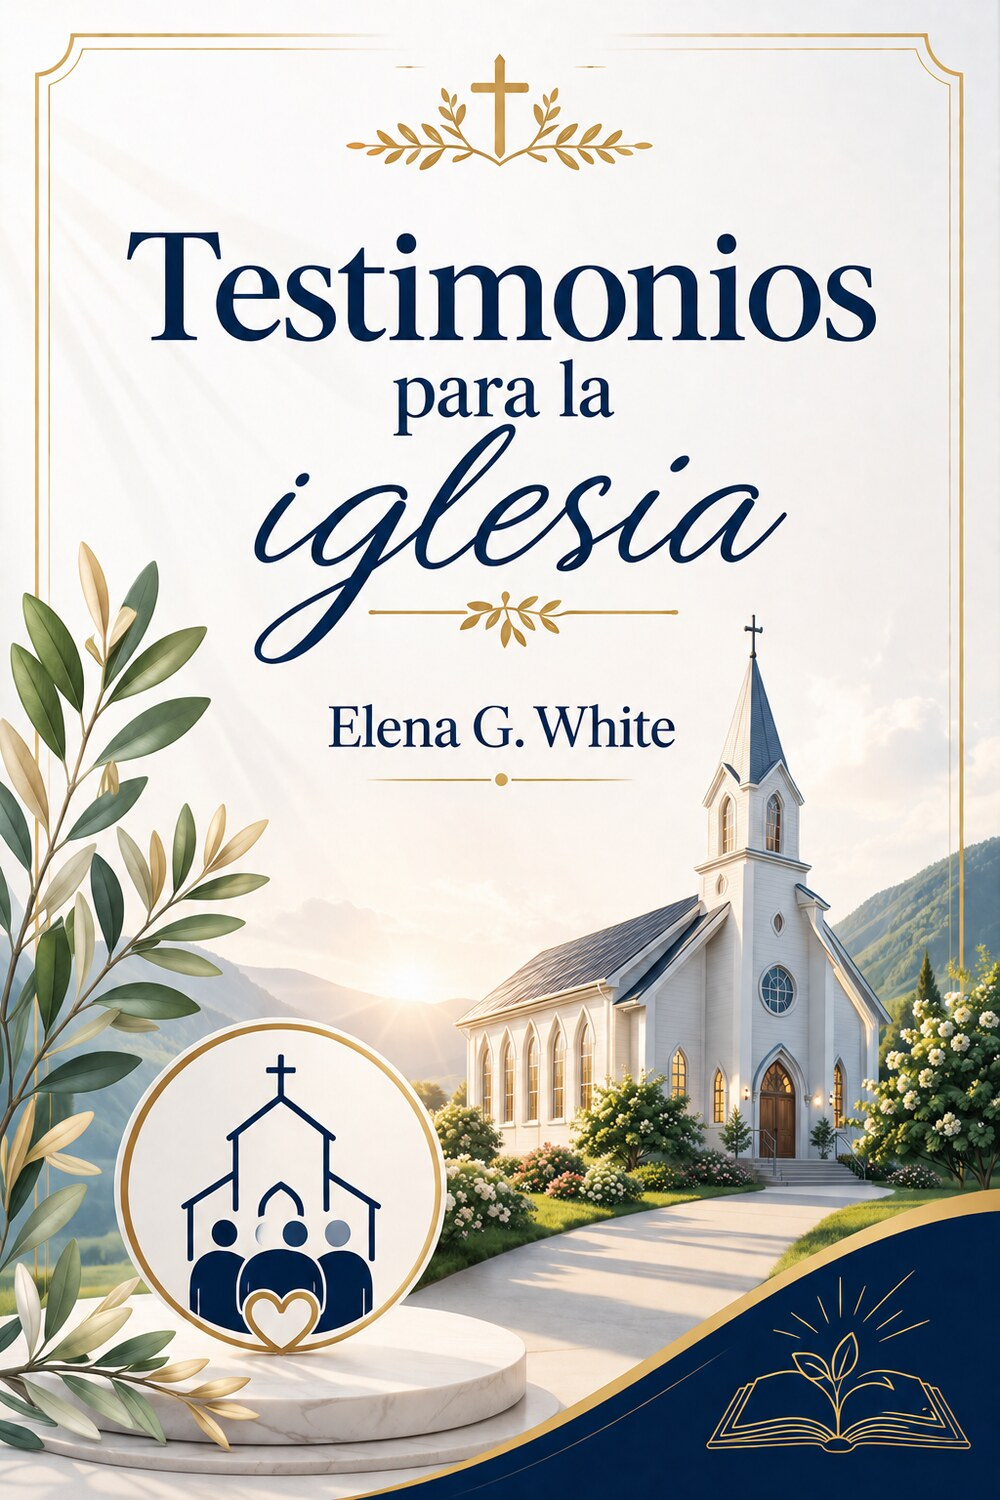
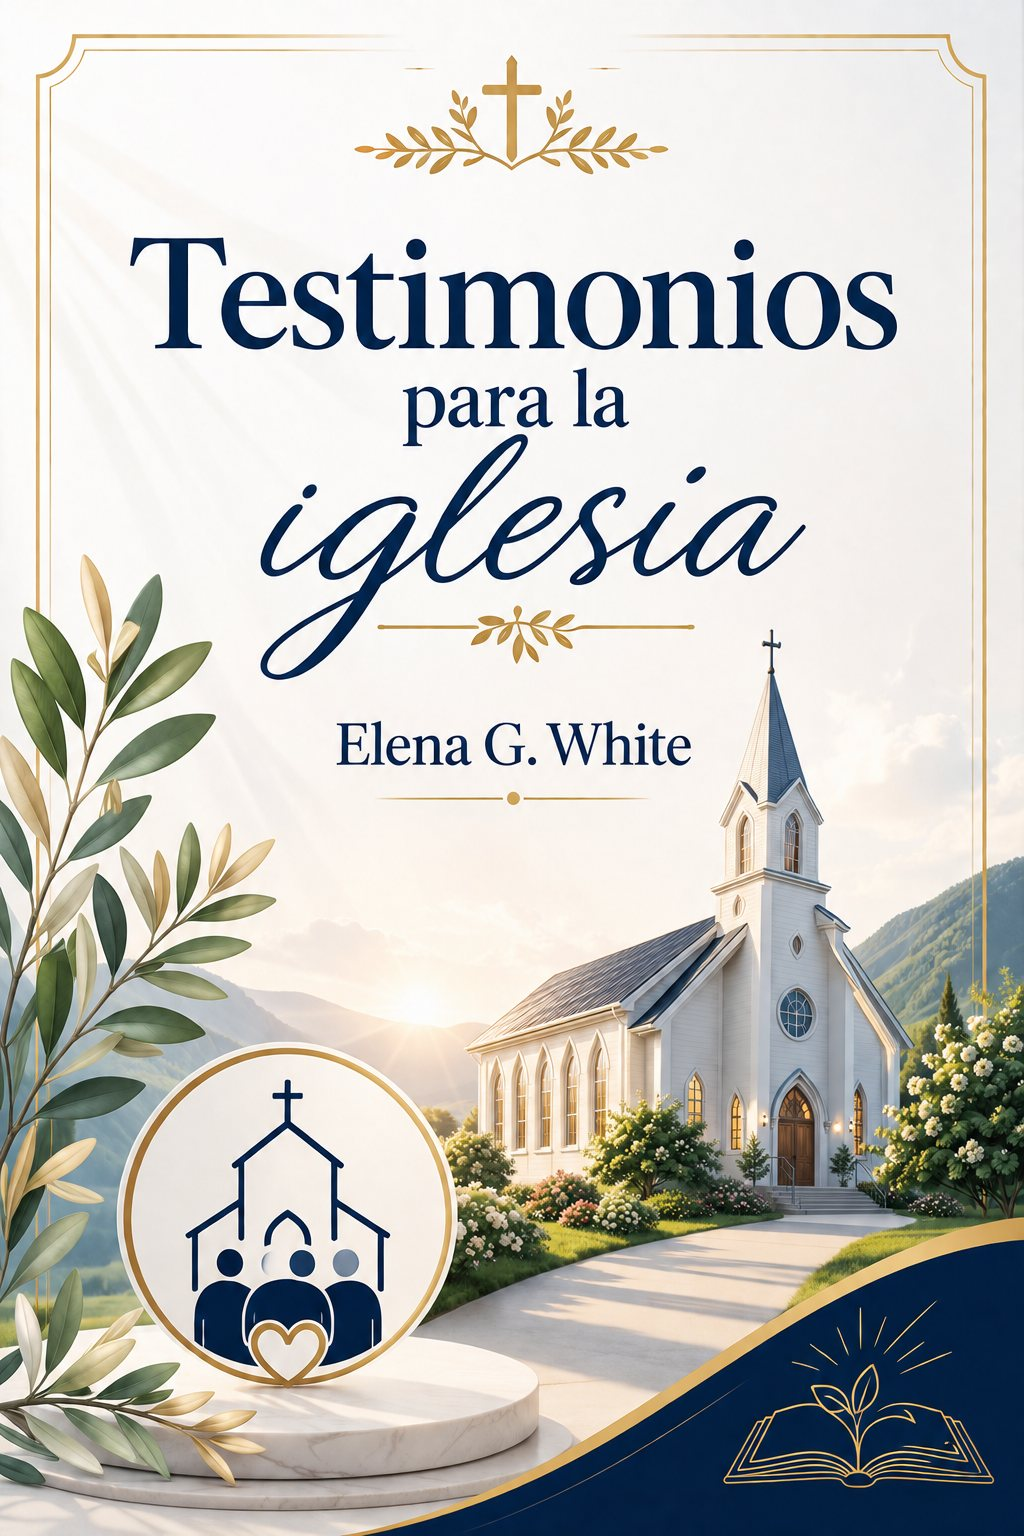
portadas

Changed region(s): [[0.713, 0.92, 0.961, 0.9813]]

diff --git a/js/books-data.js b/js/books-data.js
@@ -214,6 +214,7 @@ window.BOOKS = [
     cover: 'img/el-conflicto-de-los-siglos.jpg',
     covers: [
       { style: 'ilustrada', file: 'img/el-conflicto-de-los-siglos.jpg' },
+      { style: 'tipografica-clara', file: 'img/el-conflicto-de-los-siglos-tipografica.jpg' },
       { style: 'tipografica-oscura', file: 'img/el-conflicto-de-los-siglos-tipografica-oscura.jpg' }
     ],
     badge: null,
@@ -1546,8 +1547,9 @@ window.BOOKS = [
     priceNote: 'Disponible muy pronto',
     finish: 'Brillo',
     paper: 'Blanco offset',
-    cover: 'img/testimonios-selectos-tomo-ii-tipografica.jpg',
+    cover: 'img/testimonios-selectos.jpg',
     covers: [
+      { style: 'ilustrada', file: 'img/testimonios-selectos.jpg' },
       { style: 'tipografica-clara', file: 'img/testimonios-selectos-tomo-ii-tipografica.jpg' },
       { style: 'tipografica-oscura', file: 'img/testimonios-selectos-tomo-ii-tipografica-oscura.jpg' }
     ],
@@ -1570,8 +1572,9 @@ window.BOOKS = [
     priceNote: 'Disponible muy pronto',
     finish: 'Brillo',
     paper: 'Blanco offset',
-    cover: 'img/testimonios-selectos-tomo-iii-tipografica.jpg',
+    cover: 'img/testimonios-selectos.jpg',
     covers: [
+      { style: 'ilustrada', file: 'img/testimonios-selectos.jpg' },
       { style: 'tipografica-clara', file: 'img/testimonios-selectos-tomo-iii-tipografica.jpg' },
       { style: 'tipografica-oscura', file: 'img/testimonios-selectos-tomo-iii-tipografica-oscura.jpg' }
     ],
@@ -1594,8 +1597,9 @@ window.BOOKS = [
     priceNote: 'Disponible muy pronto',
     finish: 'Brillo',
     paper: 'Blanco offset',
-    cover: 'img/testimonios-selectos-tomo-iv-tipografica.jpg',
+    cover: 'img/testimonios-selectos.jpg',
     covers: [
+      { style: 'ilustrada', file: 'img/testimonios-selectos.jpg' },
       { style: 'tipografica-clara', file: 'img/testimonios-selectos-tomo-iv-tipografica.jpg' },
       { style: 'tipografica-oscura', file: 'img/testimonios-selectos-tomo-iv-tipografica-oscura.jpg' }
     ],
@@ -1618,8 +1622,9 @@ window.BOOKS = [
     priceNote: 'Disponible muy pronto',
     finish: 'Brillo',
     paper: 'Blanco offset',
-    cover: 'img/testimonios-selectos-tomo-v-tipografica.jpg',
+    cover: 'img/testimonios-selectos.jpg',
     covers: [
+      { style: 'ilustrada', file: 'img/testimonios-selectos.jpg' },
       { style: 'tipografica-clara', file: 'img/testimonios-selectos-tomo-v-tipografica.jpg' },
       { style: 'tipografica-oscura', file: 'img/testimonios-selectos-tomo-v-tipografica-oscura.jpg' }
     ],
@@ -1642,8 +1647,9 @@ window.BOOKS = [
     priceNote: 'Disponible muy pronto',
     finish: 'Brillo',
     paper: 'Blanco offset',
-    cover: 'img/testimonios-para-la-iglesia-tomo-1-tipografica.jpg',
+    cover: 'img/testimonios-para-la-iglesia.jpg',
     covers: [
+      { style: 'ilustrada', file: 'img/testimonios-para-la-iglesia.jpg' },
       { style: 'tipografica-clara', file: 'img/testimonios-para-la-iglesia-tomo-1-tipografica.jpg' },
       { style: 'tipografica-oscura', file: 'img/testimonios-para-la-iglesia-tomo-1-tipografica-oscura.jpg' }
     ],
@@ -1666,8 +1672,9 @@ window.BOOKS = [
     priceNote: 'Disponible muy pronto',
     finish: 'Brillo',
     paper: 'Blanco offset',
-    cover: 'img/testimonios-para-la-iglesia-tomo-5-tipografica.jpg',
+    cover: 'img/testimonios-para-la-iglesia.jpg',
     covers: [
+      { style: 'ilustrada', file: 'img/testimonios-para-la-iglesia.jpg' },
       { style: 'tipografica-clara', file: 'img/testimonios-para-la-iglesia-tomo-5-tipografica.jpg' },
       { style: 'tipografica-oscura', file: 'img/testimonios-para-la-iglesia-tomo-5-tipografica-oscura.jpg' }
     ],
@@ -1690,8 +1697,9 @@ window.BOOKS = [
     priceNote: 'Disponible muy pronto',
     finish: 'Brillo',
     paper: 'Blanco offset',
-    cover: 'img/testimonios-para-los-ministros-tipografica.jpg',
+    cover: 'img/testimonios-para-los-ministros.jpg',
     covers: [
+      { style: 'ilustrada', file: 'img/testimonios-para-los-ministros.jpg' },
       { style: 'tipografica-clara', file: 'img/testimonios-para-los-ministros-tipografica.jpg' },
       { style: 'tipografica-oscura', file: 'img/testimonios-para-los-ministros-tipografica-oscura.jpg' }
     ],
@@ -1714,8 +1722,9 @@ window.BOOKS = [
     priceNote: 'Disponible muy pronto',
     finish: 'Brillo',
     paper: 'Blanco offset',
-    cover: 'img/testimonios-conducta-sexual-adulterio-divorcio-tipografica.jpg',
+    cover: 'img/testimonios-conducta-sexual-adulterio-divorcio.jpg',
     covers: [
+      { style: 'ilustrada', file: 'img/testimonios-conducta-sexual-adulterio-divorcio.jpg' },
       { style: 'tipografica-clara', file: 'img/testimonios-conducta-sexual-adulterio-divorcio-tipografica.jpg' },
       { style: 'tipografica-oscura', file: 'img/testimonios-conducta-sexual-adulterio-divorcio-tipografica-oscura.jpg' }
     ],
@@ -1738,8 +1747,9 @@ window.BOOKS = [
     priceNote: 'Disponible muy pronto',
     finish: 'Brillo',
     paper: 'Blanco offset',
-    cover: 'img/sermones-escogidos-1-tipografica.jpg',
+    cover: 'img/sermones-escogidos.jpg',
     covers: [
+      { style: 'ilustrada', file: 'img/sermones-escogidos.jpg' },
       { style: 'tipografica-clara', file: 'img/sermones-escogidos-1-tipografica.jpg' },
       { style: 'tipografica-oscura', file: 'img/sermones-escogidos-1-tipografica-oscura.jpg' }
     ],
@@ -1762,8 +1772,9 @@ window.BOOKS = [
     priceNote: 'Disponible muy pronto',
     finish: 'Brillo',
     paper: 'Blanco offset',
-    cover: 'img/sermones-escogidos-2-tipografica.jpg',
+    cover: 'img/sermones-escogidos.jpg',
     covers: [
+      { style: 'ilustrada', file: 'img/sermones-escogidos.jpg' },
       { style: 'tipografica-clara', file: 'img/sermones-escogidos-2-tipografica.jpg' },
       { style: 'tipografica-oscura', file: 'img/sermones-escogidos-2-tipografica-oscura.jpg' }
     ],
@@ -1786,8 +1797,9 @@ window.BOOKS = [
     priceNote: 'Disponible muy pronto',
     finish: 'Brillo',
     paper: 'Blanco offset',
-    cover: 'img/servicio-cristiano-tipografica.jpg',
+    cover: 'img/servicio-cristiano.jpg',
     covers: [
+      { style: 'ilustrada', file: 'img/servicio-cristiano.jpg' },
       { style: 'tipografica-clara', file: 'img/servicio-cristiano-tipografica.jpg' },
       { style: 'tipografica-oscura', file: 'img/servicio-cristiano-tipografica-oscura.jpg' }
     ],
@@ -1810,8 +1822,9 @@ window.BOOKS = [
     priceNote: 'Disponible muy pronto',
     finish: 'Brillo',
     paper: 'Blanco offset',
-    cover: 'img/ser-semejante-a-jesus-tipografica.jpg',
+    cover: 'img/ser-semejante-a-jesus.jpg',
     covers: [
+      { style: 'ilustrada', file: 'img/ser-semejante-a-jesus.jpg' },
       { style: 'tipografica-clara', file: 'img/ser-semejante-a-jesus-tipografica.jpg' },
       { style: 'tipografica-oscura', file: 'img/ser-semejante-a-jesus-tipografica-oscura.jpg' }
     ],
@@ -1834,8 +1847,9 @@ window.BOOKS = [
     priceNote: 'Disponible muy pronto',
     finish: 'Brillo',
     paper: 'Blanco offset',
-    cover: 'img/un-llamado-a-ser-diferente-tipografica.jpg',
+    cover: 'img/un-llamado-a-ser-diferente.jpg',
     covers: [
+      { style: 'ilustrada', file: 'img/un-llamado-a-ser-diferente.jpg' },
       { style: 'tipografica-clara', file: 'img/un-llamado-a-ser-diferente-tipografica.jpg' },
       { style: 'tipografica-oscura', file: 'img/un-llamado-a-ser-diferente-tipografica-oscura.jpg' }
     ],
@@ -2004,8 +2018,9 @@ window.BOOKS = [
     priceNote: 'Disponible muy pronto',
     finish: 'Brillo',
     paper: 'Blanco offset',
-    cover: 'img/el-camino-a-cristo-tipografica.jpg',
+    cover: 'img/el-camino-a-cristo.jpg',
     covers: [
+      { style: 'ilustrada', file: 'img/el-camino-a-cristo.jpg' },
       { style: 'tipografica-clara', file: 'img/el-camino-a-cristo-tipografica.jpg' },
       { style: 'tipografica-oscura', file: 'img/el-camino-a-cristo-tipografica-oscura.jpg' }
     ],
@@ -2028,8 +2043,9 @@ window.BOOKS = [
     priceNote: 'Disponible muy pronto',
     finish: 'Brillo',
     paper: 'Blanco offset',
-    cover: 'img/desde-el-corazon-tipografica.jpg',
+    cover: 'img/desde-el-corazon.jpg',
     covers: [
+      { style: 'ilustrada', file: 'img/desde-el-corazon.jpg' },
       { style: 'tipografica-clara', file: 'img/desde-el-corazon-tipografica.jpg' },
       { style: 'tipografica-oscura', file: 'img/desde-el-corazon-tipografica-oscura.jpg' }
     ],
@@ -2278,29 +2294,6 @@ window.BOOKS = [
     description: 'Devocional de lecturas diarias centrado en la victoria de Cristo: desde su papel en la creación hasta su triunfo final, pasando por la cruz y su ministerio a favor nuestro.',
     idioma: 'Español',
     subcategory: ['vida-de-cristo', 'devocionales'],
-  },
-  {
-    id: 'la-oracion',
-    title: 'La Oración',
-    author: 'Elena G. White',
-    authorSlug: 'elena-g-white',
-    category: 'elena-white',
-    categoryLabel: 'Elena G. White',
-    price: null,
-    comingSoon: true,
-    format: 'Tapa blanda, 148 x 210 mm',
-    formatSlug: 'rustica',
-    priceNote: 'Disponible muy pronto',
-    finish: 'Brillo',
-    paper: 'Blanco offset',
-    cover: 'img/la-oracion-tipografica.jpg',
-    covers: [
-      { style: 'tipografica-clara', file: 'img/la-oracion-tipografica.jpg' }
-    ],
-    badge: 'Próximamente',
-    description: 'Una recopilación sobre el privilegio de hablar con Dios: cómo orar, qué esperar de la oración y por qué es el aliento de la vida cristiana. Lectura breve y muy práctica.',
-    idioma: 'Español',
-    subcategory: ['vida-cristiana', 'devocionales'],
   },
   {
     id: 'la-educacion-cristiana',
@@ -3232,7 +3225,6 @@ window.NEEDS.forEach(function (n) {
 // window.NEEDS (justo arriba). Un libro que no aparezca en esta lista
 // simplemente no saldrá en el buscador por necesidad.
 window.BOOK_NEEDS = {
-  'la-oracion': ['paz-interior', 'crecer-cada-dia', 'primeros-pasos'],
   'la-educacion-cristiana': ['criar-a-mis-hijos', 'servir-y-compartir'],
   'joyas-de-los-testimonios-1': ['crecer-cada-dia', 'dudas-de-fe'],
   'joyas-de-los-testimonios-2': ['crecer-cada-dia', 'familia-y-pareja'],
